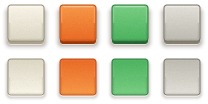
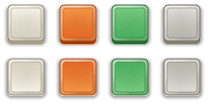
Knobs in S1-65 oscilloscope style (black knurled), calculator-style bevelled keys
Claude-Session: https://claude.ai/code/session_01U7SxQaxHMvfuTayBcgx1EU

diff --git a/tools/gen_assets.py b/tools/gen_assets.py
@@ -67,6 +67,7 @@ KBOX = 88            # клетка спрайта ручки: центр в (44
 
 
 def knob_body(R, active):
+    """Ручка как у осциллографа С1-65: чёрный рифлёный пластик, плоская верхушка с проточками, хромовая юбка."""
     S = KBOX
     img = new(S, S)
     x, y = grid(S, S)
@@ -74,48 +75,50 @@ def knob_body(R, active):
     y -= S / 2
     r = np.hypot(x, y)
     th = np.arctan2(y, x)
-    # тень
-    d = np.hypot(x, y - 3.0)
-    over(img, np.full(img.shape[:2] + (3,), (60, 42, 24), np.float32), 0.34 * np.clip((R + 4.8 - d) / 7.0, 0, 1) ** 1.6)
-    # ободок: литое кольцо, свет сверху-слева
-    light = 0.5 + 0.5 * np.cos(th + 2.356)
-    if active:
-        rim = lerp((150, 54, 14), (252, 168, 84), light)
-    else:
-        rim = lerp((84, 78, 64), (240, 236, 224), light ** 1.2)
-    over(img, rim, cover(r - (R + 3.3)))
-    over(img, np.full(img.shape[:2] + (3,), (64, 56, 44), np.float32), 0.85 * cover(np.abs(r - (R + 0.1)) - 0.45))   # тёмный зазор
-    # колпачок: радиальный градиент + «шлифованный металл»
-    u = (x + 0.30 * R) / R
-    v = (y + 0.36 * R) / R
-    t = np.clip(np.hypot(u, v) / 1.35, 0, 1)
-    cap = lerp((254, 251, 240), (172, 166, 150), t ** 1.15)
-    spin = np.maximum(0, np.cos(2 * (th + 0.75))) ** 7
-    cap = cap + 22 * spin[..., None] * smooth(0.12 * R, 0.5 * R, r)[..., None] - 10 * (np.maximum(0, np.cos(2 * (th - 0.8))) ** 9)[..., None] * smooth(0.2 * R, R, r)[..., None]
-    cap = cap + 3.0 * np.sin(r * 6.5)[..., None]
-    over(img, cap, cover(r - (R - 0.2)))
-    # канавка на колпачке и светлая кромка под ней
-    over(img, np.full(img.shape[:2] + (3,), (90, 80, 62), np.float32), 0.32 * cover(np.abs(r - 0.58 * R) - 0.5))
-    over(img, np.full(img.shape[:2] + (3,), (255, 255, 255), np.float32), 0.45 * cover(np.abs(r - 0.58 * R - 0.9) - 0.4) * (light > 0.35))
-    # тонкая внешняя кромка колпачка
-    over(img, np.full(img.shape[:2] + (3,), (104, 96, 78), np.float32), 0.7 * cover(np.abs(r - (R - 0.3)) - 0.55))
+    C = lambda c: np.full(img.shape[:2] + (3,), c, np.float32)
+    d = np.hypot(x, y - 3.0)                                                       # тень на панели
+    over(img, C((60, 42, 24)), 0.36 * np.clip((R + 4.8 - d) / 7.0, 0, 1) ** 1.6)
+    light = 0.5 + 0.5 * np.cos(th + 2.356)                                         # свет сверху-слева
+    if active:                                                                     # юбка: оранжевая при касании
+        skirt = lerp((150, 54, 14), (252, 168, 84), light)
+    else:                                                                          # юбка: хром
+        skirt = lerp((92, 92, 94), (236, 238, 240), light ** 1.3)
+    over(img, skirt, cover(r - (R + 3.4)))
+    over(img, C((20, 20, 22)), 0.9 * cover(np.abs(r - (R + 0.6)) - 0.5))           # зазор между юбкой и ручкой
+    # боковая рифлёная стенка: рёбра по окружности
+    Rb = R + 0.1
+    ribs = 0.5 + 0.5 * np.cos(th * 30)
+    wall = lerp((20, 20, 22), (70, 70, 74), ribs * (0.35 + 0.65 * light))
+    over(img, wall, cover(r - Rb))
+    # верхняя площадка: тёмный пластик, радиальный градиент от блика
+    rt = Rb - 3.6
+    u, v = (x + 0.28 * R) / R, (y + 0.34 * R) / R
+    t = np.clip(np.hypot(u, v) / 1.3, 0, 1)
+    top = lerp((74, 74, 80), (22, 22, 24), t ** 0.9)
+    top = top + 3.0 * np.sin(r * 9.0)[..., None] * smooth(0.2 * R, 0.5 * R, r)[..., None]   # токарные проточки
+    over(img, top, cover(r - rt))
+    over(img, C((8, 8, 10)), 0.7 * cover(np.abs(r - rt) - 0.5))                    # фаска площадки
+    over(img, C((150, 150, 156)), 0.45 * cover(np.abs(r - rt + 0.9) - 0.4) * (light > 0.5))
+    over(img, C((6, 6, 8)), 0.55 * cover(np.abs(r - 0.52 * R) - 0.5))               # центральная проточка
+    over(img, C((120, 120, 126)), 0.30 * cover(np.abs(r - 0.52 * R - 0.9) - 0.4) * (light > 0.4))
     # блик
-    hl = np.hypot(x + 0.36 * R, y + 0.44 * R)
-    over(img, np.full(img.shape[:2] + (3,), (255, 255, 255), np.float32), 0.30 * np.clip(1 - hl / (0.42 * R), 0, 1) ** 1.5)
+    hl = np.hypot(x + 0.34 * R, y + 0.42 * R)
+    over(img, C((255, 255, 255)), 0.20 * np.clip(1 - hl / (0.46 * R), 0, 1) ** 1.6)
     return down(img)
 
 
 def knob_pointer(R):
+    """Белая риска-указатель (рисуется поворотом вокруг центра)."""
     S = KBOX
     img = new(S, S)
     x, y = grid(S, S)
     x -= S / 2
     y -= S / 2
-    w, y0, y1 = 3.4, -0.88 * R, -0.30 * R
-    sd = rrect_sd(x, y, -w / 2, y0, w, y1 - y0, w / 2)
-    over(img, np.full(img.shape[:2] + (3,), (255, 255, 255), np.float32), 0.55 * cover(rrect_sd(x - 0.7, y - 1.1, -w / 2, y0, w, y1 - y0, w / 2)))   # светлая «подсветка» снизу-справа
-    body = lerp((96, 76, 60), (62, 46, 36), (x + w / 2) / w)
-    over(img, body, cover(sd))
+    w, y0, y1 = 3.2, -0.90 * R, -0.20 * R
+    sdr = lambda dx, dy: rrect_sd(x - dx, y - dy, -w / 2, y0, w, y1 - y0, w / 2)
+    over(img, np.zeros(img.shape[:2] + (3,), np.float32), 0.45 * cover(sdr(0.5, 0.8)))      # тень риски
+    over(img, np.full(img.shape[:2] + (3,), (246, 244, 236), np.float32), cover(sdr(0, 0)))
+    over(img, np.full(img.shape[:2] + (3,), (170, 166, 154), np.float32), 0.6 * cover(rrect_sd(x, y, w / 2 - 0.2, y0, 0.9, y1 - y0, 0.4)))
     return down(img)
 
 
@@ -139,32 +142,41 @@ KEY_STYLES = {
 
 
 def key_sprite(style, pressed):
+    """Клавиша как у калькуляторов 70-х: скошенные стенки, слегка вогнутая верхняя грань, чёрное гнездо."""
     top, bot, edge, side = KEY_STYLES[style]
     img = new(KS, KS)
     x, y = grid(KS, KS)
-    bx, by, bw, bh = 8.0, 5.0 + (2.0 if pressed else 0.0), 36.0, 36.0
-    sdb = rrect_sd(x, y, bx, by, bw, bh, 3.0)
-    # мягкая тень под клавишей
-    sds = rrect_sd(x, y, bx - 1, by + (2.5 if pressed else 4.5), bw + 2, bh, 4.0)
-    over(img, np.full(img.shape[:2] + (3,), (60, 42, 24), np.float32), (0.20 if pressed else 0.28) * np.clip(1 - sds / (4.0 if pressed else 6.0), 0, 1) ** 2 * (sds > -1))
-    if not pressed:
-        sdf = rrect_sd(x, y, bx, by + 3.0, bw, bh, 3.0)
-        over(img, np.full(img.shape[:2] + (3,), side, np.float32), cover(sdf))
-    g = np.clip((y - by) / bh, 0, 1)
+    C = lambda c: np.full(img.shape[:2] + (3,), c, np.float32)
+    dy_ = 2.0 if pressed else 0.0
+    bx, by, bw, bh = 8.0, 5.0 + dy_, 36.0, 36.0
+    # гнездо: тёмная тень вокруг клавиши
+    sds = rrect_sd(x, y, bx - 1.2, by - 0.6 + (1.6 if pressed else 2.6), bw + 2.4, bh + 1.0, 5.0)
+    over(img, C((20, 16, 12)), (0.34 if pressed else 0.30) * np.clip(1 - sds / 4.2, 0, 1) ** 1.8 * (sds > -1))
+    sdo = rrect_sd(x, y, bx, by, bw, bh, 4.5)                    # внешний контур (низ стенок)
+    if not pressed:                                              # нижняя грань: высота клавиши
+        over(img, C(side), cover(rrect_sd(x, y, bx, by + 3.0, bw, bh, 4.5)))
+        over(img, C(edge), 0.5 * cover(np.abs(rrect_sd(x, y, bx, by + 3.0, bw, bh, 4.5)) - 0.5))
+    # скошенные стенки: свет сверху-слева, тень снизу-справа
+    nx, ny = (x - (bx + bw / 2)) / (bw / 2), (y - (by + bh / 2)) / (bh / 2)
+    lt = np.clip(0.5 - 0.5 * (nx * 0.55 + ny * 0.85) / (np.abs(nx) + np.abs(ny) + 1e-3), 0, 1)
+    wall = lerp(lerp(top, (0, 0, 0), 0.22), lerp(top, (255, 255, 255), 0.55), lt)
+    over(img, wall, cover(sdo))
+    # верхняя грань: вогнутая (темнее в центре, светлее к кромке), вертикальный градиент
+    inset = 3.0
+    sdt = rrect_sd(x, y, bx + inset, by + inset, bw - 2 * inset, bh - 2 * inset, 3.0)
+    g = np.clip((y - (by + inset)) / (bh - 2 * inset), 0, 1)
     c0, c1 = (bot, top) if pressed else (top, bot)
     face = lerp(c0, c1, g)
-    over(img, face, cover(sdb))
-    # внутренняя фаска: светлая сверху-слева, тёмная снизу-справа
-    inner = -sdb
-    bev = np.where(y < by + bh * 0.5, 1.0, -1.0)
-    over(img, np.full(img.shape[:2] + (3,), 255.0, np.float32), (0.16 if not pressed else 0.05) * (bev > 0) * cover(np.abs(inner - 1.6) - 0.6) * (inner > 0.6))
-    over(img, np.zeros(img.shape[:2] + (3,), np.float32), (0.07) * (bev < 0) * cover(np.abs(inner - 1.6) - 0.6) * (inner > 0.6))
-    over(img, np.full(img.shape[:2] + (3,), edge, np.float32), cover(np.abs(sdb) - 0.5))
+    cc = np.clip(np.hypot(nx, ny) / 1.2, 0, 1)
+    face = face * (1 - 0.06 * (1 - cc))[..., None]               # лёгкая вогнутость
+    over(img, face, cover(sdt))
+    over(img, C(edge), 0.55 * cover(np.abs(sdt) - 0.45))         # шов между стенкой и верхом
+    over(img, C(edge), cover(np.abs(sdo) - 0.5))                 # внешний контур
     if not pressed:
-        over(img, np.full(img.shape[:2] + (3,), (255, 255, 255), np.float32), (0.36 if style == 0 else 0.30) * cover(rrect_sd(x, y, bx + 3, by + 1.0, bw - 6, 1.3, 0.6)))
+        over(img, C((255, 255, 255)), 0.34 * cover(rrect_sd(x, y, bx + 5, by + 1.0, bw - 10, 1.2, 0.6)))
     out = down(img)
-    rng = np.random.default_rng(7 + style * 3 + pressed)          # чуть-чуть зерна пластика
-    n = rng.normal(0, 1.4, out.shape[:2])[..., None]
+    rng = np.random.default_rng(7 + style * 3 + pressed)          # зерно пластика
+    n = rng.normal(0, 1.3, out.shape[:2])[..., None]
     out[..., :3] = np.clip(out[..., :3].astype(np.float32) + n * (out[..., 3:4] > 200), 0, 255).astype(np.uint8)
     return out
 
